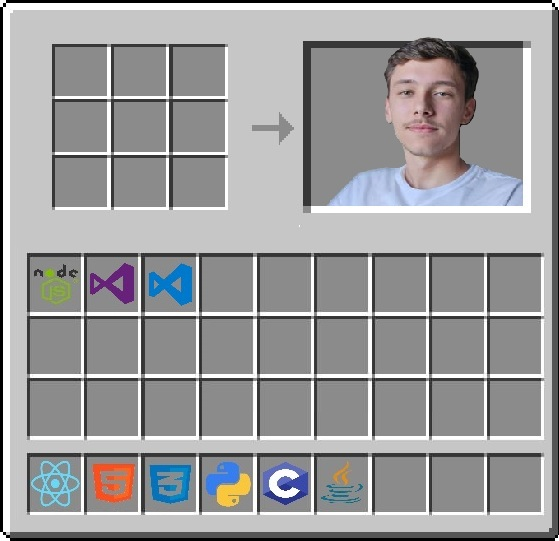
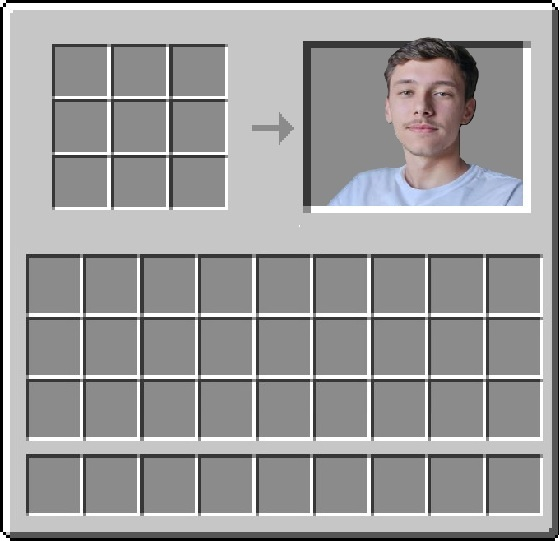
mudar imagem fixa da crafting table para um background com os ícones clicáveis e com hover parte 2

Changed region(s): [[0.0304, 0.4732, 0.9732, 0.976]]

diff --git a/portfolioadrianoreidel/src/App.js b/portfolioadrianoreidel/src/App.js
@@ -1,6 +1,7 @@
 import React, { useState, useEffect } from 'react';
 import './App.css';
 import images from './images';
+import { tecnologias } from './tecnologias';
 
 function App() {
   const pages = [
@@ -42,99 +43,6 @@ function App() {
     return () => window.removeEventListener('resize', handleResize);
   }, []);
 
-  const tecnologias = [
-    { 
-      nome: "CSharp", 
-      icone: images.csharp, 
-      link: "https://dotnet.microsoft.com/pt-br/languages/csharp" 
-    },
-    { 
-      nome: "dotNetCore", 
-      icone: images.dotNetCore, 
-      link: "https://dotnet.microsoft.com/pt-br/apps/aspnet" 
-    },
-    { 
-      nome: "Postgre", 
-      icone: images.postgre, 
-      link: "https://www.postgresql.org/" 
-    },
-    { 
-      nome: "JavaScript", 
-      icone: images.javascript, 
-      link: "https://www.javascript.com/" 
-    },
-    { 
-      nome: "ExtJs", 
-      icone: images.extjs, 
-      link: "https://www.sencha.com/products/extjs/" 
-    },
-    { 
-      nome: "Sybase", 
-      icone: images.sybase, 
-      link: "https://www.sap.com/brazil/products/technology-platform/sql-anywhere.html" 
-    },
-    { 
-      nome: "GitHub", 
-      icone: images.git, 
-      link: "https://github.com/" 
-    },
-    { 
-      nome: "GitLab", 
-      icone: images.gitlab, 
-      link: "https://gitlab.com/gitlab-com" 
-    },
-    { 
-      nome: "NHibernate", 
-      icone: images.nhibernate, 
-      link: "https://nhibernate.info/" 
-    },
-    { 
-      nome: "Node.js", 
-      icone: images.nodejs, 
-      link: "https://nodejs.org" 
-    },
-    { 
-      nome: "Visual Studio",
-      icone: images.vs,          
-      link: "https://visualstudio.microsoft.com" 
-    },
-    { 
-      nome: "VS Code",      
-      icone: images.vscode,      
-      link: "https://code.visualstudio.com" 
-    },
-    { 
-      nome: "ReactJs.js", 
-      icone: images.nodejs, 
-      link: "https://react.dev/" 
-    },
-    { 
-      nome: "HTML", 
-      icone: images.htmlicon, 
-      link: "https://developer.mozilla.org/pt-BR/docs/Web/HTML" 
-    },
-    { 
-      nome: "CSS", 
-      icone: images.cssicon, 
-      link: "https://developer.mozilla.org/pt-BR/docs/Web/CSS" 
-    },
-    { 
-      nome: "Python", 
-      icone: images.python, 
-      link: "https://www.python.org/" 
-    },
-    { 
-      nome: "C", 
-      icone: images.c, 
-      link: "https://devdocs.io/c/" 
-    },
-    { 
-      nome: "Java", 
-      icone: images.java, 
-      link: "https://www.java.com/pt-BR/" 
-    },
-  ];
-
   return (
     <div className="App">
       <img
@@ -156,6 +64,20 @@ function App() {
                     <button 
                       key={index} 
                       onClick={() => window.open(tec.link, '_blank', 'noreferrer')}
+                    >
+                      <img 
+                        src={tec.icone} 
+                        alt={tec.nome} 
+                      />
+                    </button>
+                  ))}
+                </div>
+                <div className="button-list">
+                  {tecnologias.slice(9, 18).map((tec, index) => (
+                    <button
+                      key={index}
+                      onClick={() => window.open(tec.link, '_blank', 'noreferrer')}
+                      title={tec.nome}
                     >
                       <img 
                         src={tec.icone} 
@@ -314,8 +236,24 @@ function App() {
           <>
             <div className="image-row">
               <div className="craftingtable-container">
+                
                 <div className="button-grid">
                   {tecnologias.slice(0, 9).map((tec, index) => (
+                    <button
+                      key={index}
+                      onClick={() => window.open(tec.link, '_blank', 'noreferrer')}
+                      title={tec.nome}
+                    >
+                      <img 
+                        src={tec.icone} 
+                        alt={tec.nome} 
+                      />
+                    </button>
+                  ))}
+                </div>
+
+                <div className="button-list">
+                  {tecnologias.slice(9, 18).map((tec, index) => (
                     <button
                       key={index}
                       onClick={() => window.open(tec.link, '_blank', 'noreferrer')}

diff --git a/portfolioadrianoreidel/src/images.js b/portfolioadrianoreidel/src/images.js
@@ -22,24 +22,24 @@ const images = {
     linkedin: require('./linkedin.png'),
     github: require('./github.png'),
     email: require('./email.png'),
-    csharp: require('./csharp.jpeg'),
-    dotNetCore: require('./dotnetcore.jpeg'),
-    postgre: require('./postgre.jpeg'),
-    javascript: require('./javascript.jpeg'),
+    csharp: 'https://cdn.jsdelivr.net/gh/devicons/devicon/icons/csharp/csharp-original.svg',
+    dotNetCore: 'https://cdn.jsdelivr.net/gh/devicons/devicon@latest/icons/dotnetcore/dotnetcore-original.svg',
+    postgre: 'https://cdn.jsdelivr.net/gh/devicons/devicon@latest/icons/postgresql/postgresql-original.svg',
+    javascript: 'https://cdn.jsdelivr.net/gh/devicons/devicon@latest/icons/javascript/javascript-original.svg',
     extjs: require('./extjs.jpeg'),
     sybase: require('./sybase.jpeg'),
-    git: require('./git.jpeg'),
-    gitlab: require('./gitlab.jpeg'),
-    nhibernate: require('./nhibernate.jpeg'),
-    nodejs: require('./node.jpeg'),
-    vs: require('./vs.jpeg'),
-    vscode: require('./vscode.jpeg'),
-    react: require('./react.jpeg'),
-    htmlicon: require('./htmlicon.jpeg'),
-    cssicon: require('./cssicon.jpeg'),
-    python: require('./python.jpeg'),
-    c: require('./c.jpeg'),
-    java: require('./java.jpeg'),
+    git: 'https://cdn.jsdelivr.net/gh/devicons/devicon@latest/icons/github/github-original.svg',
+    gitlab: 'https://cdn.jsdelivr.net/gh/devicons/devicon@latest/icons/gitlab/gitlab-original.svg',
+    nhibernate: 'https://cdn.jsdelivr.net/gh/devicons/devicon@latest/icons/nhibernate/nhibernate-original.svg',
+    nodejs: 'https://cdn.jsdelivr.net/gh/devicons/devicon@latest/icons/nodejs/nodejs-original.svg',
+    vs: 'https://cdn.jsdelivr.net/gh/devicons/devicon@latest/icons/visualstudio/visualstudio-original.svg',
+    vscode: 'https://cdn.jsdelivr.net/gh/devicons/devicon@latest/icons/vscode/vscode-original.svg',
+    react: 'https://cdn.jsdelivr.net/gh/devicons/devicon@latest/icons/react/react-original.svg',
+    htmlicon: 'https://cdn.jsdelivr.net/gh/devicons/devicon@latest/icons/html5/html5-original.svg',
+    cssicon: 'https://cdn.jsdelivr.net/gh/devicons/devicon@latest/icons/css3/css3-original.svg',
+    python: 'https://cdn.jsdelivr.net/gh/devicons/devicon@latest/icons/python/python-original.svg',
+    c: 'https://cdn.jsdelivr.net/gh/devicons/devicon@latest/icons/c/c-original.svg',
+    java: 'https://cdn.jsdelivr.net/gh/devicons/devicon@latest/icons/java/java-original.svg',
   };
   
   export default images;

diff --git a/portfolioadrianoreidel/src/tecnologias.js b/portfolioadrianoreidel/src/tecnologias.js
@@ -1,0 +1,95 @@
+import images from './images';
+
+export const tecnologias = [
+    { 
+      nome: "CSharp", 
+      icone: images.csharp, 
+      link: "https://dotnet.microsoft.com/pt-br/languages/csharp" 
+    },
+    { 
+      nome: "dotNetCore", 
+      icone: images.dotNetCore, 
+      link: "https://dotnet.microsoft.com/pt-br/apps/aspnet" 
+    },
+    { 
+      nome: "Postgre", 
+      icone: images.postgre, 
+      link: "https://www.postgresql.org/" 
+    },
+    { 
+      nome: "JavaScript", 
+      icone: images.javascript, 
+      link: "https://www.javascript.com/" 
+    },
+    { 
+      nome: "ExtJs", 
+      icone: images.extjs, 
+      link: "https://www.sencha.com/products/extjs/" 
+    },
+    { 
+      nome: "Sybase", 
+      icone: images.sybase, 
+      link: "https://www.sap.com/brazil/products/technology-platform/sql-anywhere.html" 
+    },
+    { 
+      nome: "GitHub", 
+      icone: images.git, 
+      link: "https://github.com/" 
+    },
+    { 
+      nome: "GitLab", 
+      icone: images.gitlab, 
+      link: "https://gitlab.com/gitlab-com" 
+    },
+    { 
+      nome: "NHibernate", 
+      icone: images.nhibernate, 
+      link: "https://nhibernate.info/" 
+    },
+    { 
+      nome: "Node.js", 
+      icone: images.nodejs, 
+      link: "https://nodejs.org" 
+    },
+    { 
+      nome: "Visual Studio",
+      icone: images.vs,          
+      link: "https://visualstudio.microsoft.com" 
+    },
+    { 
+      nome: "VS Code",      
+      icone: images.vscode,      
+      link: "https://code.visualstudio.com" 
+    },
+    { 
+      nome: "ReactJs.js", 
+      icone: images.react, 
+      link: "https://react.dev/" 
+    },
+    { 
+      nome: "HTML", 
+      icone: images.htmlicon, 
+      link: "https://developer.mozilla.org/pt-BR/docs/Web/HTML" 
+    },
+    { 
+      nome: "CSS", 
+      icone: images.cssicon, 
+      link: "https://developer.mozilla.org/pt-BR/docs/Web/CSS" 
+    },
+    { 
+      nome: "Python", 
+      icone: images.python, 
+      link: "https://www.python.org/" 
+    },
+    { 
+      nome: "C", 
+      icone: images.c, 
+      link: "https://devdocs.io/c/" 
+    },
+    { 
+      nome: "Java", 
+      icone: images.java, 
+      link: "https://www.java.com/pt-BR/" 
+    },
+  ];
+  

diff --git a/portfolioadrianoreidel/src/App.css b/portfolioadrianoreidel/src/App.css
@@ -69,6 +69,31 @@
   display: block; 
 }
 
+.button-list {
+  position: absolute;
+  top: 38.6vh;
+  left: 2.8vh;
+  display: grid;
+  grid-template-columns: repeat(9, auto);
+  grid-gap: 1.4vh;
+}
+
+.button-list button {
+  background: none; 
+  border: none;
+  outline: none;
+  padding: 0;
+  margin: 0;
+  cursor: pointer;
+  width: 5h;
+}
+
+.button-list button img {
+  width: 3.5vh;   /* ou o valor que preferir */
+  height: auto; /* mantém a proporção vertical */
+  display: block; 
+}
+
 .portfolio-image-livro {
   width: 45vh;
   height: auto;
@@ -156,6 +181,31 @@
   }
 
   .button-grid button img {
+    width: 5vh;   /* ou o valor que preferir */
+    height: auto; /* mantém a proporção vertical */
+    display: block; 
+  }
+
+  .button-list {
+    position: absolute;
+    top: 58.3vh;
+    left: 4.5vh;
+    display: grid;
+    grid-template-columns: repeat(9, auto);
+    grid-gap: 2.2vh;
+  }
+  
+  .button-list button {
+    background: none; 
+    border: none;
+    outline: none;
+    padding: 0;
+    margin: 0;
+    cursor: pointer;
+    width: 5h;
+  }
+
+  .button-list button img {
     width: 5vh;   /* ou o valor que preferir */
     height: auto; /* mantém a proporção vertical */
     display: block; 
